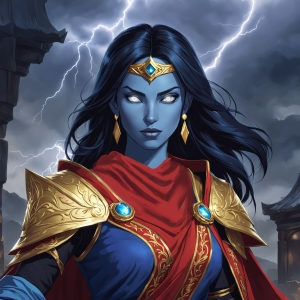
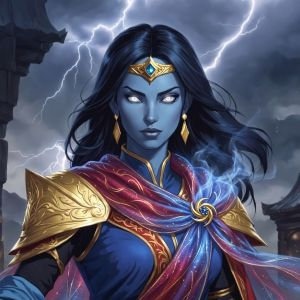
update

diff --git a/index.html b/index.html
@@ -1768,7 +1768,7 @@ magię, próbując osiągnąć poziom mocy, jaki ma ich idol. Klub przypomina ba
 &lt;&lt;button &#39;Powrót&#39;&gt;&gt;
 	&lt;&lt;goto &#39;Start&#39;&gt;&gt;
 &lt;&lt;/button&gt;&gt;
-&lt;/div&gt;</tw-passagedata><tw-passagedata pid="3" name="StoryInit" tags="" position="225,75" size="100,100">&lt;&lt;set $bsreaders to 81&gt;&gt;
+&lt;/div&gt;</tw-passagedata><tw-passagedata pid="3" name="StoryInit" tags="" position="225,75" size="100,100">&lt;&lt;set $bsreaders to 84&gt;&gt;
 
 &lt;&lt;set $currentYear to 3&gt;&gt;
 &lt;&lt;set $threeYearPlus = $currentYear+3&gt;&gt;
@@ -1776,7 +1776,11 @@ magię, próbując osiągnąć poziom mocy, jaki ma ich idol. Klub przypomina ba
 &lt;&lt;set $oneYearPlus = $currentYear+1&gt;&gt;
 &lt;&lt;set $oneYearMinus = $currentYear-1&gt;&gt;
 &lt;&lt;set $twoYearMinus = $currentYear-2&gt;&gt;
-&lt;&lt;set $threeYearMinus = $currentYear-3&gt;&gt;</tw-passagedata><tw-passagedata pid="4" name="Staff" tags="" position="100,200" size="100,100">&lt;h1 class=&quot;naglowek&quot;&gt;&lt;center&gt;Kadra Strixhaven&lt;/center&gt;&lt;/h1&gt;
+&lt;&lt;set $threeYearMinus = $currentYear-3&gt;&gt;
+
+&lt;td class=&quot;no-match&quot; data-points=&quot;0&quot;&gt;&lt;/td&gt;
+&lt;td class=&quot;loss&quot; data-points=&quot;130&quot;&gt;&lt;img src=&quot;img/misc/cs2.png&quot; class=&quot;ikonka przeciwnik&quot;&gt;&lt;/td&gt;
+&lt;td class=&quot;win&quot; data-points=&quot;200&quot;&gt;&lt;img src=&#39;img/misc/cl2.png&#39; class=&quot;ikonka przeciwnik&quot;&gt;&lt;/td&gt;</tw-passagedata><tw-passagedata pid="4" name="Staff" tags="" position="100,200" size="100,100">&lt;h1 class=&quot;naglowek&quot;&gt;&lt;center&gt;Kadra Strixhaven&lt;/center&gt;&lt;/h1&gt;
 &lt;div class=&quot;blokDwa&quot;&gt;
 &lt;div class=&quot;tabela&quot;&gt;
 &lt;center&gt;&lt;table&gt;
@@ -2849,7 +2853,7 @@ Studenci i pracownicy, którzy przechadzają się obok ogrodu, często słyszą,
 			&lt;span class=&quot;aktal&quot;&gt;Opis&lt;/span&gt;: Wysoka, szczupła kobieta o jasnej cerze i stalowoniebieskich oczach, które zdają się przenikać na wskroś rozmówcę. Jej proste, blond włosy sięgają ramion i są zazwyczaj niedbale spięte, co odzwierciedla jej praktyczne podejście do życia. Ubiera się w ciemne, funkcjonalne stroje z subtelnymi haftami przedstawiającymi symbole starożytnych artefaktów i run, co podkreśla jej przynależność do Lorehold. Elara od młodości wyróżniała się wrodzoną odpornością na magię, znaną jako &quot;Cichy Umysł,&quot; która chroniła ją przed efektami zaklęć wpływających na umysł i iluzji. To zdolność sprawiła, że często czuła się wyobcowana, ale również umocniła jej determinację w odkrywaniu tajemnic świata. Z wiekiem odkryła też szczególną biegłość w rozpraszaniu magii co jej pomogło w nie jednych lochach, które badała. Elara pasjonuje się badaniem starożytnych tekstów i reliktów, zwłaszcza tych związanych z historią i magią, w nadziei na zrozumienie pochodzenia swojej niezwykłej mocy. W Strixhaven, jako studentka Lorehold, stała się znana ze swojej dociekliwości i talentu do rozwiązywania zagadek, zyskując szacunek profesorów za swoje zaangażowanie i wytrwałość, została nawet protegowaną Dziekan Augusty Tullus.
         &lt;&lt;/replace&gt;&gt;
     &lt;&lt;/link&gt;&gt;
-&lt;img src= &quot;img\misc\fci.png&quot;&gt;&lt;img src= &quot;img\misc\bmi.png&quot;&gt;&lt;img src= &quot;img\misc\honey.png&quot;&gt;&lt;&lt;link &quot;Wulfric Wilfredson&quot;&gt;&gt;
+&lt;img src= &quot;img\misc\fci.png&quot;&gt;&lt;img src= &quot;img\misc\bmi.png&quot;&gt;&lt;img src= &quot;img\misc\honey.png&quot;&gt;&lt;img src= &quot;img\misc\seal.png&quot;&gt;&lt;&lt;link &quot;Wulfric Wilfredson&quot;&gt;&gt;
         &lt;&lt;replace &quot;.portret&quot;&gt;&gt;
             [img[img/char/Wulfric.jpg]]
         &lt;&lt;/replace&gt;&gt;
@@ -2930,7 +2934,7 @@ Urodzony jako syn Wilfreda, kapłana boga Talosa. Ojciec Wulfrica również był
 			Z charakteru jest intensywna niczym ogień choć potrafi być również niebezpieczna jak wzburzone morze. Na codzień jest postrzegana jako najbardziej rozchichotana, flirciarska oraz najmniej bystra z całej trójki drowek, nazywanych Trojaczkami przez innych studentów ze względu na ich prawie nierozłączność. Jeszcze nikt nie wywołał u niej napadu furii, ale niektórzy (jak Grayson Wildemere) są bliscy tego.
         &lt;&lt;/replace&gt;&gt;
     &lt;&lt;/link&gt;&gt;
-&lt;img src= &quot;img\misc\bmi.png&quot;&gt;&lt;&lt;link &quot;Ignatius Everlund&quot;&gt;&gt;
+&lt;img src= &quot;img\misc\bmi.png&quot;&gt;&lt;img src= &quot;img\misc\seal.png&quot;&gt;&lt;&lt;link &quot;Ignatius Everlund&quot;&gt;&gt;
         &lt;&lt;replace &quot;.portret&quot;&gt;&gt;
             [img[img/char/Ignatious.jpg]]
         &lt;&lt;/replace&gt;&gt;
@@ -2958,7 +2962,7 @@ Urodzony jako syn Wilfreda, kapłana boga Talosa. Ojciec Wulfrica również był
 			&lt;span class=&quot;aktap&quot;&gt;Opis&lt;/span&gt;: Quentillius podchodzi do wszystkich swoich przedsięwzięć z najwyższą powagą. Uważa, że należy albo zrobić coś poprawnie, albo nie robić wcale. Quentillius jest członkiem uniwersyteckiej Playactors Drama Guild, gdzie jego oddanie temu co nazywa &quot;rzemiosłem&quot; jest absolutne. Patrzy z pogardą na innych aktorów, którzy wolno zapamiętują swoje kwestie lub którzy przeoczają sygnały do wygłoszenia kwestii. Lepiej w jego oczach wypada ekipa techniczna, gdyż Quentillius uważa ich za kluczowych dla przedstawienia i często przynosi im oraz reżyserowi kwiaty w ramach podziękowań. Chociaż ma potężną osobowość na scenie - szczególnie w rolach romantycznych - krytycy określili jego występy histrionicznymi. Aby lepiej odgrywać swoje przyszłe role w starożytnych sztukach, Quentillius dołączył do Dead Languages Society. Swoje role planuje wykonać w oryginalnych językach spektakli, niezależnie od tego czy pozostała część spektaklu będzie przetłumaczona na język wspólny.
         &lt;&lt;/replace&gt;&gt;
     &lt;&lt;/link&gt;&gt;
-&lt;img src= &quot;img\misc\cp2.png&quot;&gt;&lt;&lt;link &quot;Nur&quot;&gt;&gt;
+&lt;img src= &quot;img\misc\cp2.png&quot;&gt;&lt;img src= &quot;img\misc\seal.png&quot;&gt;&lt;&lt;link &quot;Nur&quot;&gt;&gt;
         &lt;&lt;replace &quot;.portret&quot;&gt;&gt;
             [img[img/char/Nur.jpg]]
         &lt;&lt;/replace&gt;&gt;
@@ -3187,7 +3191,7 @@ Urodzony jako syn Wilfreda, kapłana boga Talosa. Ojciec Wulfrica również był
 			&lt;span class=&quot;aktas&quot;&gt;Opis&lt;/span&gt;: Manfredi jest to dusza towarzystwa, bardzo przyjazny, dziarski młody krasnolud, o ogorzałej twarzy ze skłonnościami do chmielowego cudu oraz wdawaniem się w bitki. Jest bardem więc często można usłyszeć jak opowiada wierszem, prozą lub też pieśnią o tych bójkach. Najchętniej relacjonuje swoje wyczyny lub przygody, ale zdarza się, że &quot;bierze na warsztat&quot; fizyczne wymiany zdań innych. Nie ma za długiej brody, ale za to ma piękne długie warkoczyki, i zazwyczaj nosi małą zabawną czapeczkę z pomponem.
         &lt;&lt;/replace&gt;&gt;
     &lt;&lt;/link&gt;&gt;
-&lt;img src= &quot;img\misc\bmi.png&quot;&gt;&lt;&lt;link &quot;Jasper Jacqes OCarrot&quot;&gt;&gt;
+&lt;img src= &quot;img\misc\bmi.png&quot;&gt;&lt;img src= &quot;img\misc\seal.png&quot;&gt;&lt;&lt;link &quot;Jasper Jacqes OCarrot&quot;&gt;&gt;
         &lt;&lt;replace &quot;.portret&quot;&gt;&gt;
             [img[img/char/Jasper.jpg]]
         &lt;&lt;/replace&gt;&gt;
@@ -4916,6 +4920,7 @@ Jako członkini Dragonsguard Historical Society organizuje ekspedycje badawcze i
   &lt;span class=&quot;champion-stars&quot;&gt;
     &lt;img src=&quot;img/misc/star.png&quot;&gt;
     &lt;img src=&quot;img/misc/star.png&quot;&gt;
+    &lt;img src=&quot;img/misc/star.png&quot;&gt;
   &lt;/span&gt;
 &lt;/h1&gt;
 
@@ -5056,7 +5061,7 @@ Ilość czytelników Burzy Mózgów: &lt;&lt;print $bsreaders&gt;&gt;</tw-passag
       &lt;td class=&quot;win&quot; data-points=&quot;200&quot;&gt;&lt;img src=&#39;img/misc/cl2.png&#39; class=&quot;ikonka przeciwnik&quot;&gt;&lt;/td&gt;
       &lt;td class=&quot;win&quot; data-points=&quot;170&quot;&gt;&lt;img src=&#39;img/misc/cw2.png&#39; class=&quot;ikonka przeciwnik&quot;&gt;&lt;/td&gt;
       &lt;td class=&quot;win&quot; data-points=&quot;250&quot;&gt;&lt;img src=&#39;img/misc/cq2.png&#39; class=&quot;ikonka przeciwnik&quot;&gt;&lt;/td&gt;
-      &lt;td class=&quot;no-match&quot; data-points=&quot;0&quot;&gt;&lt;/td&gt;
+      &lt;td class=&quot;loss&quot; data-points=&quot;180&quot;&gt;&lt;img src=&#39;img/misc/cs2.png&#39; class=&quot;ikonka przeciwnik&quot;&gt;&lt;/td&gt;
       &lt;td class=&quot;total&quot;&gt;&lt;/td&gt;
       &lt;td class=&quot;place&quot;&gt;&lt;/td&gt;
     &lt;/tr&gt;
@@ -5076,7 +5081,7 @@ Ilość czytelników Burzy Mózgów: &lt;&lt;print $bsreaders&gt;&gt;</tw-passag
       &lt;td class=&quot;win&quot; data-points=&quot;260&quot;&gt;&lt;img src=&#39;img/misc/cl2.png&#39; class=&quot;ikonka przeciwnik&quot;&gt;&lt;/td&gt;
       &lt;td class=&quot;win&quot; data-points=&quot;180&quot;&gt;&lt;img src=&#39;img/misc/cw2.png&#39; class=&quot;ikonka przeciwnik&quot;&gt;&lt;/td&gt;
       &lt;td class=&quot;loss&quot; data-points=&quot;80&quot;&gt;&lt;img src=&#39;img/misc/cq2.png&#39; class=&quot;ikonka przeciwnik&quot;&gt;&lt;/td&gt;
-      &lt;td class=&quot;no-match&quot; data-points=&quot;0&quot;&gt;&lt;/td&gt;
+      &lt;td class=&quot;win&quot; data-points=&quot;220&quot;&gt;&lt;img src=&#39;img/misc/cp2.png&#39; class=&quot;ikonka przeciwnik&quot;&gt;&lt;/td&gt;
       &lt;td class=&quot;total&quot;&gt;&lt;/td&gt;
       &lt;td class=&quot;place&quot;&gt;&lt;/td&gt;
     &lt;/tr&gt;
@@ -5633,6 +5638,8 @@ Utrzymanie atramentu wymaga dużej koncentracji, więc studenci spędzają więk
         &lt;&lt;replace &quot;.portret&quot;&gt;&gt;
             &lt;span class=&quot;aktag&quot;&gt; Prowadzący:&lt;/span&gt; &lt;span class=&quot;aktal&quot;&gt; Lianna Flametongue&lt;/span&gt;
             &lt;span class=&quot;aktag&quot;&gt;Uczniowie:&lt;/span&gt;
+            Bhedum &quot;Rampart&quot; Sooviij
+            Seraphina Voidwing
         &lt;&lt;/replace&gt;&gt;
 		&lt;&lt;replace &quot;.opis&quot;&gt;&gt;
 		&lt;h2 class=&quot;naglowek&quot;&gt;Imagined Dragons: Preparing the Next Generation of Dragonsguard&lt;/h2&gt;
@@ -5644,6 +5651,10 @@ Lianna uczy uczniów na tych zajęciach, jak przywoływać okruchy świadomości
         &lt;&lt;replace &quot;.portret&quot;&gt;&gt;
             &lt;span class=&quot;aktag&quot;&gt; Prowadzący:&lt;/span&gt; &lt;span class=&quot;aktaw&quot;&gt; Tivash, Gloom Summoner&lt;/span&gt;
             &lt;span class=&quot;aktag&quot;&gt;Uczniowie:&lt;/span&gt;
+            Riyola Corrowend
+            Cadoras Damellawar
+            Tilana Kapule
+            Elara Veilwyn
         &lt;&lt;/replace&gt;&gt;
 		&lt;&lt;replace &quot;.opis&quot;&gt;&gt;
 		&lt;h2 class=&quot;naglowek&quot;&gt;Need a Hand?: Using the Arcane for Creative Problem Solving&lt;/h2&gt;
@@ -5654,6 +5665,8 @@ Lianna uczy uczniów na tych zajęciach, jak przywoływać okruchy świadomości
         &lt;&lt;replace &quot;.portret&quot;&gt;&gt;
             &lt;span class=&quot;aktag&quot;&gt; Prowadzący:&lt;/span&gt; &lt;span class=&quot;aktaq&quot;&gt; Jazack Quickfoot&lt;/span&gt;
             &lt;span class=&quot;aktag&quot;&gt;Uczniowie:&lt;/span&gt;
+            Kaelar Skyclaw
+            Rosimyffenbip &quot;Rosie&quot; Wuzfeddlims
         &lt;&lt;/replace&gt;&gt;
 		&lt;&lt;replace &quot;.opis&quot;&gt;&gt;
 		&lt;h2 class=&quot;naglowek&quot;&gt;There and Back Again: Advanced Teleportation&lt;/h2&gt;
@@ -5664,6 +5677,9 @@ Lianna uczy uczniów na tych zajęciach, jak przywoływać okruchy świadomości
         &lt;&lt;replace &quot;.portret&quot;&gt;&gt;
             &lt;span class=&quot;aktag&quot;&gt; Prowadzący:&lt;/span&gt; &lt;span class=&quot;aktas&quot;&gt; Luc Brandford&lt;/span&gt;
             &lt;span class=&quot;aktag&quot;&gt;Uczniowie:&lt;/span&gt;
+            Shuvadri Glintmantle
+            Melwythorne
+            Dora Wolf
         &lt;&lt;/replace&gt;&gt;
 		&lt;&lt;replace &quot;.opis&quot;&gt;&gt;
 		&lt;h2 class=&quot;naglowek&quot;&gt;Sharing is Caring: Protecting Those Closest to You&lt;/h2&gt;
@@ -5685,6 +5701,8 @@ Lianna uczy uczniów na tych zajęciach, jak przywoływać okruchy świadomości
         &lt;&lt;replace &quot;.portret&quot;&gt;&gt;
             &lt;span class=&quot;aktal&quot;&gt; Prowadzący:&lt;/span&gt; Marrick Deepfinder
             &lt;span class=&quot;aktal&quot;&gt;Uczniowie:&lt;/span&gt;
+            Chalithra Cormrael
+            Riyola Corrowend
         &lt;&lt;/replace&gt;&gt;
 		&lt;&lt;replace &quot;.opis&quot;&gt;&gt;
 		&lt;h2 class=&quot;naglowek&quot;&gt;Buying Time: Archaeo-Economics&lt;/h2&gt;
@@ -5695,6 +5713,8 @@ Lianna uczy uczniów na tych zajęciach, jak przywoływać okruchy świadomości
         &lt;&lt;replace &quot;.portret&quot;&gt;&gt;
             &lt;span class=&quot;aktal&quot;&gt; Prowadzący:&lt;/span&gt; Osgir, The Reconstructor
             &lt;span class=&quot;aktal&quot;&gt;Uczniowie:&lt;/span&gt;
+            Bhedum &quot;Rampart&quot; Sooviij
+            Elara Veilwyn
         &lt;&lt;/replace&gt;&gt;
 		&lt;&lt;replace &quot;.opis&quot;&gt;&gt;
 		&lt;h2 class=&quot;naglowek&quot;&gt;Armor Class: Replicating Ancient Smithing and Leatherworking Techniques (LAB)&lt;/h2&gt;
@@ -5705,6 +5725,10 @@ Lianna uczy uczniów na tych zajęciach, jak przywoływać okruchy świadomości
         &lt;&lt;replace &quot;.portret&quot;&gt;&gt;
             &lt;span class=&quot;aktal&quot;&gt; Prowadzący:&lt;/span&gt; Marrick Deepfinder
             &lt;span class=&quot;aktal&quot;&gt;Uczniowie:&lt;/span&gt;
+            Shadya Aleafin
+            Duke Crocker
+            Elara Veilwyn
+            Seraphina Voidwing
         &lt;&lt;/replace&gt;&gt;
 		&lt;&lt;replace &quot;.opis&quot;&gt;&gt;
 		&lt;h2 class=&quot;naglowek&quot;&gt;Shake it up: Using Ruin Magic to Unearth New Digsites&lt;/h2&gt;
@@ -5715,6 +5739,9 @@ Lianna uczy uczniów na tych zajęciach, jak przywoływać okruchy świadomości
         &lt;&lt;replace &quot;.portret&quot;&gt;&gt;
             &lt;span class=&quot;aktal&quot;&gt; Prowadzący:&lt;/span&gt; Tervis Sharpwing
             &lt;span class=&quot;aktal&quot;&gt;Uczniowie:&lt;/span&gt;
+            Greta Gorunn
+            Connor Pandraigh
+            Bhedum &quot;Rampart&quot; Sooviij
         &lt;&lt;/replace&gt;&gt;
 		&lt;&lt;replace &quot;.opis&quot;&gt;&gt;
 		&lt;h2 class=&quot;naglowek&quot;&gt;Cutting Edge: Popular Weapons and Fighting Techniques Throughout the Ages (LAB)&lt;/h2&gt;
@@ -5736,6 +5763,11 @@ Lianna uczy uczniów na tych zajęciach, jak przywoływać okruchy świadomości
         &lt;&lt;replace &quot;.portret&quot;&gt;&gt;
             &lt;span class=&quot;aktap&quot;&gt; Prowadzący:&lt;/span&gt; Rock, Earsplitter
             &lt;span class=&quot;aktap&quot;&gt;Uczniowie:&lt;/span&gt;
+            Greta Gorunn
+            Katia Kornath
+            Rubina Larkingdale
+            Rosimyffenbip &quot;Rosie&quot; Wuzfeddlims
+            Aurora Laura Wynterstarr
         &lt;&lt;/replace&gt;&gt;
 		&lt;&lt;replace &quot;.opis&quot;&gt;&gt;
 		&lt;h2 class=&quot;naglowek&quot;&gt;Show of Force: Advanced Methods of Dealing with Hecklers and Other Undersirables&lt;/h2&gt;
@@ -5746,6 +5778,13 @@ Lianna uczy uczniów na tych zajęciach, jak przywoływać okruchy świadomości
         &lt;&lt;replace &quot;.portret&quot;&gt;&gt;
             &lt;span class=&quot;aktap&quot;&gt; Prowadzący:&lt;/span&gt; Zaffai, Thunder Conductor
             &lt;span class=&quot;aktap&quot;&gt;Uczniowie:&lt;/span&gt;
+            Zanther Bowen
+            Freya Coldshade
+            Malwena Dalael
+            Cadoras Damellawar
+            Rubina Larkingdale
+            Dora Wolf
+            Aurora Laura Wynterstarr
         &lt;&lt;/replace&gt;&gt;
 		&lt;&lt;replace &quot;.opis&quot;&gt;&gt;
 		&lt;h2 class=&quot;naglowek&quot;&gt;Current Events: Advanced Applications of Electricity in Performance Art&lt;/h2&gt;
@@ -5756,6 +5795,10 @@ Lianna uczy uczniów na tych zajęciach, jak przywoływać okruchy świadomości
         &lt;&lt;replace &quot;.portret&quot;&gt;&gt;
             &lt;span class=&quot;aktap&quot;&gt; Prowadzący:&lt;/span&gt; Ahkwa
             &lt;span class=&quot;aktap&quot;&gt;Uczniowie:&lt;/span&gt;
+            Larine Arneza
+            Zanther Bowen
+            Malwena Dalael
+            Aurora Laura Wynterstarr
         &lt;&lt;/replace&gt;&gt;
 		&lt;&lt;replace &quot;.opis&quot;&gt;&gt;
 		&lt;h2 class=&quot;naglowek&quot;&gt;Maintaining Mental Flow: Controlling Water as a Means of Clearing a Creative Block&lt;/h2&gt;
@@ -5766,6 +5809,8 @@ Lianna uczy uczniów na tych zajęciach, jak przywoływać okruchy świadomości
         &lt;&lt;replace &quot;.portret&quot;&gt;&gt;
             &lt;span class=&quot;aktap&quot;&gt; Prowadzący:&lt;/span&gt; Uvilda Mistcoiler, Dean of Perfection
             &lt;span class=&quot;aktap&quot;&gt;Uczniowie:&lt;/span&gt;
+            Zanther Bowen
+            Freya Coldshade
         &lt;&lt;/replace&gt;&gt;
 		&lt;&lt;replace &quot;.opis&quot;&gt;&gt;
 		&lt;h2 class=&quot;naglowek&quot;&gt;The Show Must Go On: Methods For Avoiding Disasters&lt;/h2&gt;
@@ -5787,6 +5832,11 @@ Lianna uczy uczniów na tych zajęciach, jak przywoływać okruchy świadomości
         &lt;&lt;replace &quot;.portret&quot;&gt;&gt;
             &lt;span class=&quot;aktaq&quot;&gt; Prowadzący:&lt;/span&gt;Rixy
             &lt;span class=&quot;aktaq&quot;&gt;Uczniowie:&lt;/span&gt;
+            Larine Arneza
+            Freya Coldshade
+            Malwena Dalael
+            Cadoras Damellawar
+            Quentillius Antiphiun Melentor III
         &lt;&lt;/replace&gt;&gt;
 		&lt;&lt;replace &quot;.opis&quot;&gt;&gt;
 		&lt;h2 class=&quot;naglowek&quot;&gt;Now You See Me: Applied Illusory Arts (LAB)&lt;/h2&gt;
@@ -5797,6 +5847,9 @@ Lianna uczy uczniów na tych zajęciach, jak przywoływać okruchy świadomości
         &lt;&lt;replace &quot;.portret&quot;&gt;&gt;
             &lt;span class=&quot;aktaq&quot;&gt; Prowadzący:&lt;/span&gt;Renald Rothton
             &lt;span class=&quot;aktaq&quot;&gt;Uczniowie:&lt;/span&gt;
+            Riyola Corrowend
+            Tilana Kapule
+            Kaelar Skyclaw
         &lt;&lt;/replace&gt;&gt;
 		&lt;&lt;replace &quot;.opis&quot;&gt;&gt;
 		&lt;h2 class=&quot;naglowek&quot;&gt;Weights and Measures: Advanced Abstracting Theory&lt;/h2&gt;
@@ -5807,6 +5860,8 @@ Lianna uczy uczniów na tych zajęciach, jak przywoływać okruchy świadomości
         &lt;&lt;replace &quot;.portret&quot;&gt;&gt;
             &lt;span class=&quot;aktaq&quot;&gt; Prowadzący:&lt;/span&gt;Clem Greenthumb
             &lt;span class=&quot;aktaq&quot;&gt;Uczniowie:&lt;/span&gt;
+            Greta Gorunn
+            Connor Pandraigh
         &lt;&lt;/replace&gt;&gt;
 		&lt;&lt;replace &quot;.opis&quot;&gt;&gt;
 		&lt;h2 class=&quot;naglowek&quot;&gt;When the Growing Gets Tough, the Tough Get Growing: Advanced Scale Magic (LAB)&lt;/h2&gt;
@@ -5817,6 +5872,9 @@ Lianna uczy uczniów na tych zajęciach, jak przywoływać okruchy świadomości
         &lt;&lt;replace &quot;.portret&quot;&gt;&gt;
             &lt;span class=&quot;aktaq&quot;&gt; Prowadzący:&lt;/span&gt;Jazack Quickfoot
             &lt;span class=&quot;aktaq&quot;&gt;Uczniowie:&lt;/span&gt;
+            Ilofyr
+            Melwythorne
+            Rhimne &quot;Rin&quot; Pedelli
         &lt;&lt;/replace&gt;&gt;
 		&lt;&lt;replace &quot;.opis&quot;&gt;&gt;
 		&lt;h2 class=&quot;naglowek&quot;&gt;Duplicating Roots: Linking Flora Across Space&lt;/h2&gt;
@@ -5838,6 +5896,10 @@ Lianna uczy uczniów na tych zajęciach, jak przywoływać okruchy świadomości
         &lt;&lt;replace &quot;.portret&quot;&gt;&gt;
             &lt;span class=&quot;aktas&quot;&gt; Prowadzący:&lt;/span&gt; Liv Brandford
             &lt;span class=&quot;aktas&quot;&gt;Uczniowie:&lt;/span&gt;
+            Chalithra Cormrael
+            Connor Pandraigh
+            Kaelar Skyclaw
+            Dora Wolf
         &lt;&lt;/replace&gt;&gt;
 		&lt;&lt;replace &quot;.opis&quot;&gt;&gt;
 		&lt;h2 class=&quot;naglowek&quot;&gt;Closing Arguments: Comprehensive Methods of Decisively Defeating Opponents (LAB)&lt;/h2&gt;
@@ -5849,6 +5911,9 @@ Egzaminy oceniają uczniów pod kątem ich umiejętności stosowania technik dom
         &lt;&lt;replace &quot;.portret&quot;&gt;&gt;
             &lt;span class=&quot;aktas&quot;&gt; Prowadzący:&lt;/span&gt; Brenneth Blackstone
             &lt;span class=&quot;aktas&quot;&gt;Uczniowie:&lt;/span&gt;
+            Shadya Aleafin
+            Chalithra Cormrael
+            Duke Crocker
         &lt;&lt;/replace&gt;&gt;
 		&lt;&lt;replace &quot;.opis&quot;&gt;&gt;
 		&lt;h2 class=&quot;naglowek&quot;&gt;Blotting Out Weakness: Letting the Void Fill You&lt;/h2&gt;
@@ -5859,6 +5924,10 @@ Egzaminy oceniają uczniów pod kątem ich umiejętności stosowania technik dom
         &lt;&lt;replace &quot;.portret&quot;&gt;&gt;
             &lt;span class=&quot;aktas&quot;&gt; Prowadzący:&lt;/span&gt; Helioz Sunmane
             &lt;span class=&quot;aktas&quot;&gt;Uczniowie:&lt;/span&gt;
+            Shadya Aleafin
+            Shuvadri Glintmantle
+            Quentillius Antiphiun Melentor III
+            Seraphina Voidwing
         &lt;&lt;/replace&gt;&gt;
 		&lt;&lt;replace &quot;.opis&quot;&gt;&gt;
 		&lt;h2 class=&quot;naglowek&quot;&gt;Light Reading: Advanced Luminancy&lt;/h2&gt;
@@ -5869,6 +5938,13 @@ Egzaminy oceniają uczniów pod kątem ich umiejętności stosowania technik dom
         &lt;&lt;replace &quot;.portret&quot;&gt;&gt;
             &lt;span class=&quot;aktas&quot;&gt; Prowadzący:&lt;/span&gt; Smart Mouth
             &lt;span class=&quot;aktas&quot;&gt;Uczniowie:&lt;/span&gt;
+            Duke Crocker
+            Shuvadri Glintmantle
+            Ilofyr
+            Tilana Kapule
+            Rubina Larkingdale
+            Quentillius Antiphiun Melentor III
+            Melwythorne
         &lt;&lt;/replace&gt;&gt;
 		&lt;&lt;replace &quot;.opis&quot;&gt;&gt;
 		&lt;h2 class=&quot;naglowek&quot;&gt;In a Manner of Speaking: Intention and Subtext&lt;/h2&gt;
@@ -5890,7 +5966,9 @@ Egzaminy oceniają uczniów pod kątem ich umiejętności stosowania technik dom
         &lt;&lt;replace &quot;.portret&quot;&gt;&gt;
             &lt;span class=&quot;aktaw&quot;&gt; Prowadzący:&lt;/span&gt; Verooja
             &lt;span class=&quot;aktaw&quot;&gt;Uczniowie:&lt;/span&gt;
-            
+            Ilofyr
+            Katia Kornath
+            Rhimne &quot;Rin&quot; Pedelli
         &lt;&lt;/replace&gt;&gt;
 		&lt;&lt;replace &quot;.opis&quot;&gt;&gt;
 		&lt;h2 class=&quot;naglowek&quot;&gt;Seed Money: Growing Rare Plants for Fun and Profit&lt;/h2&gt;
@@ -5901,7 +5979,8 @@ Egzaminy oceniają uczniów pod kątem ich umiejętności stosowania technik dom
         &lt;&lt;replace &quot;.portret&quot;&gt;&gt;
             &lt;span class=&quot;aktaw&quot;&gt; Prowadzący:&lt;/span&gt; Kojil, the Tamer
             &lt;span class=&quot;aktaw&quot;&gt;Uczniowie:&lt;/span&gt;
-            
+            Larine Arneza
+            Rosimyffenbip &quot;Rosie&quot; Wuzfeddlims
         &lt;&lt;/replace&gt;&gt;
 		&lt;&lt;replace &quot;.opis&quot;&gt;&gt;
 		&lt;h2 class=&quot;naglowek&quot;&gt;Tooth and Claw: Advanced Creature Summoning (LAB)&lt;/h2&gt;
@@ -5923,7 +6002,8 @@ Egzaminy oceniają uczniów pod kątem ich umiejętności stosowania technik dom
         &lt;&lt;replace &quot;.portret&quot;&gt;&gt;
             &lt;span class=&quot;aktaw&quot;&gt; Prowadzący:&lt;/span&gt; Serafina Onyx, Necro-Biologist
             &lt;span class=&quot;aktaw&quot;&gt;Uczniowie:&lt;/span&gt;
-            
+            Katia Kornath
+            Rhimne &quot;Rin&quot; Pedelli
         &lt;&lt;/replace&gt;&gt;
 		&lt;&lt;replace &quot;.opis&quot;&gt;&gt;
 		&lt;h2 class=&quot;naglowek&quot;&gt;What Is Dead Can Never Die: Advanced Applications of Necromancy (LAB)&lt;/h2&gt;
